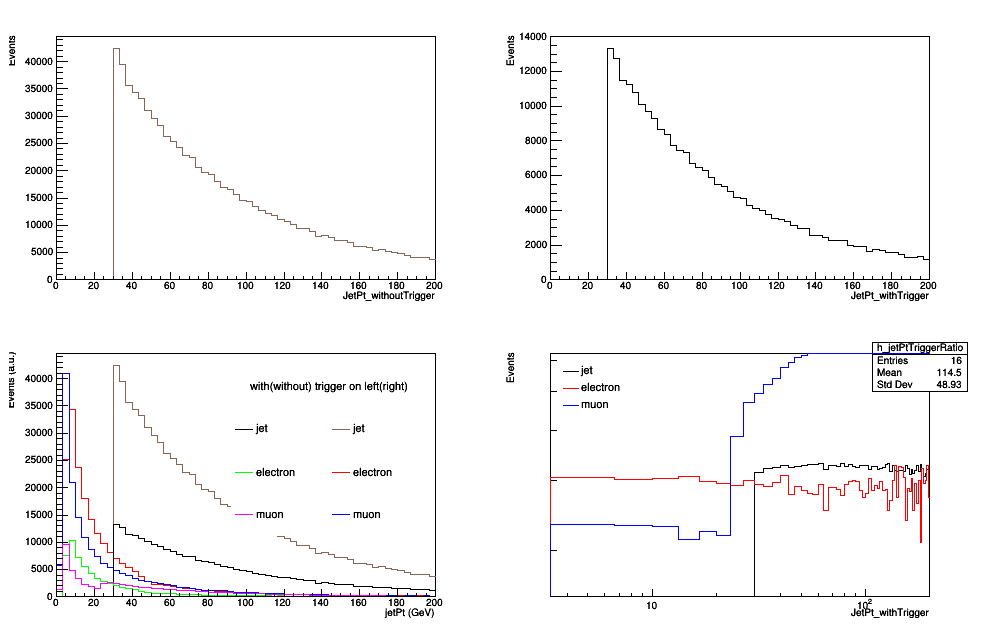
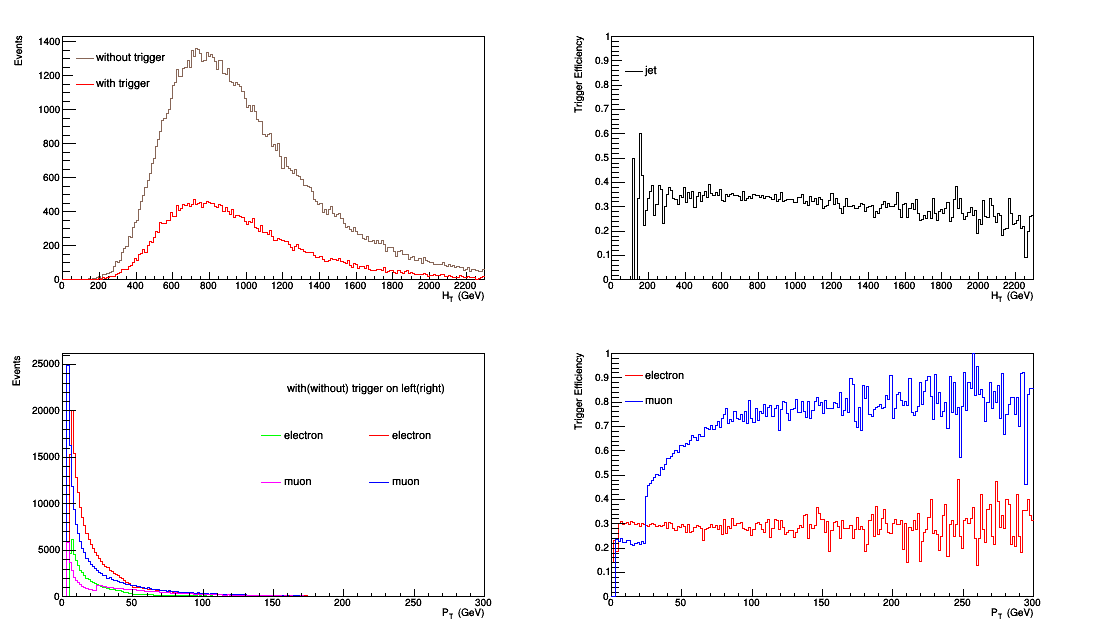
trigger IsoMu24 efficiency

diff --git a/triggerPathEfficiency.py b/triggerPathEfficiency.py
@@ -4,12 +4,12 @@ from argparse import ArgumentParser, ArgumentDefaultsHelpFormatter
 
 def main():
     #Create canvas
-    triggerCanvas = ROOT.TCanvas('triggerCanvas', 'Canvas of Pt with and without triggers', 990,660)
+    triggerCanvas = ROOT.TCanvas('triggerCanvas', 'Canvas of Pt with and without triggers', 1100,660)
     triggerCanvas.Divide(2,2)
 
     #Get histos from file
-    h_PtTriggerStack = ROOT.THStack('h_PtTriggerStack', ';jetPt (GeV); Events (a.u.)')
-    histFile = ROOT.TFile.Open("OutHistoMaker2.root")
+    h_PtTriggerStack = ROOT.THStack('h_PtTriggerStack', ';P_{T} (GeV); Events ')
+    histFile = ROOT.TFile.Open("../OutHistoMaker2.root")
     plotDirectory = histFile.cd("plots")
     h_jetPt = ROOT.gDirectory.Get("h_jetPt")
     h_jetPt.SetLineColor(28)
@@ -37,52 +37,62 @@ def main():
         print("jetPt_t histogram is empty")
 
     cv = triggerCanvas.cd(1)
+    h_jetPt.GetXaxis().SetTitle("H_{T} (GeV)")
     h_jetPt.GetYaxis().SetTitleOffset(1.5)
     h_jetPt.Draw()
-
-    cv = triggerCanvas.cd(2)
-    h_jetPtT.GetYaxis().SetTitleOffset(1.5)
-    h_jetPtT.Draw()
-
-    cv = triggerCanvas.cd(4)
-    #cv.SetLogy()
-    #cv.SetLogx()
-    h_jetPtTriggerRatio = (h_jetPtT).Clone("h_jetPtTriggerRatio")
-    h_jetPtTriggerRatio.Divide(h_jetPt)
-    h_jetPtTriggerRatio.SetLineColor(1)
-    h_jetPtTriggerRatio.Draw()
-    #h_jetPtTriggerRatio.GetYaxis().SetTitleOffset(1.3)
-    h_elPtTriggerRatio = (h_elPtT).Clone("h_elPtTriggerRatio")
-    h_elPtTriggerRatio.Divide(h_elPt)
-    h_elPtTriggerRatio.SetLineColor(2)
-    h_elPtTriggerRatio.Draw('same')
-    h_muonPtTriggerRatio = (h_muonPtT).Clone("h_muonPtTriggerRatio")
-    h_muonPtTriggerRatio.Divide(h_muonPt)
-    h_muonPtTriggerRatio.SetLineColor(4)
-    h_muonPtTriggerRatio.Draw('same')
+    h_jetPt.SetStats(False)
+    h_jetPtT.SetLineColor(2)
+    h_jetPtT.Draw('same')
     legg = ROOT.TLegend(0.12, 0.7,0.3, 0.87)
-    legg.AddEntry(h_jetPtTriggerRatio, "jet", "l")
-    legg.AddEntry(h_elPtTriggerRatio, "electron", "l")
-    legg.AddEntry(h_muonPtTriggerRatio, "muon", "l")
+    legg.AddEntry(h_jetPt, "without trigger", "l")
+    legg.AddEntry(h_jetPtT, "with trigger", "l")
     ROOT.gStyle.SetLegendTextSize(0.04)
     legg.SetBorderSize(0)
     legg.Draw()
 
+    cv = triggerCanvas.cd(2)
+    h_jetPtTriggerRatio = (h_jetPtT).Clone("h_jetPtTriggerRatio")
+    h_jetPtTriggerRatio.Divide(h_jetPt)
+    h_jetPtTriggerRatio.SetLineColor(1)
+    h_jetPtTriggerRatio.Draw()
+    h_jetPtTriggerRatio.GetXaxis().SetTitle("H_{T} (GeV)")
+    h_jetPtTriggerRatio.GetYaxis().SetTitle("Trigger Efficiency")
+    h_jetPtTriggerRatio.GetYaxis().SetRangeUser(0,1)
+    h_jetPtTriggerRatio.SetStats(False)
+    legg2 = ROOT.TLegend(0.12, 0.7,0.3, 0.87)
+    legg2.AddEntry(h_jetPtTriggerRatio, "jet", "l")
+    ROOT.gStyle.SetLegendTextSize(0.04)
+    legg2.SetBorderSize(0)
+    legg2.Draw()
+
+    cv = triggerCanvas.cd(4)
+    h_elPtTriggerRatio = (h_elPtT).Clone("h_elPtTriggerRatio")
+    h_elPtTriggerRatio.Divide(h_elPt)
+    h_elPtTriggerRatio.SetLineColor(2)
+    h_elPtTriggerRatio.Draw()
+    h_muonPtTriggerRatio = (h_muonPtT).Clone("h_muonPtTriggerRatio")
+    h_muonPtTriggerRatio.Divide(h_muonPt)
+    h_muonPtTriggerRatio.SetLineColor(4)
+    h_muonPtTriggerRatio.Draw('same')
+    h_elPtTriggerRatio.GetXaxis().SetTitle("P_{T} (GeV)")
+    h_elPtTriggerRatio.GetYaxis().SetTitle("Trigger Efficiency")
+    h_elPtTriggerRatio.GetYaxis().SetRangeUser(0,1)
+    h_elPtTriggerRatio.SetStats(False)
+    legg3 = ROOT.TLegend(0.12, 0.7,0.3, 0.87)
+    legg3.AddEntry(h_elPtTriggerRatio, "electron", "l")
+    legg3.AddEntry(h_muonPtTriggerRatio, "muon", "l")
+    ROOT.gStyle.SetLegendTextSize(0.04)
+    legg3.SetBorderSize(0)
+    legg3.Draw()
+
     cv = triggerCanvas.cd(3)
-    #h_jetPtTrigger.Draw()
-    #h_jetPt.Draw('same')
-    h_PtTriggerStack.Add(h_jetPt)
-    h_jetPt.GetYaxis().SetTitleOffset(1.7)
     h_PtTriggerStack.Add(h_elPt)
+    h_elPt.GetYaxis().SetTitleOffset(1.7)
     h_PtTriggerStack.Add(h_muonPt)
-    h_PtTriggerStack.Add(h_jetPtT)
     h_PtTriggerStack.Add(h_elPtT)
     h_muonPtT.GetYaxis().SetTitleOffset(1.7)
     h_PtTriggerStack.Add(h_muonPtT)
-    #h_PtTriggerStack.GetYaxis().SetTitleOffset(1.5)
     h_PtTriggerStack.Draw('nostack')
-    h_jetPt.SetStats(False)
-    h_jetPtT.SetStats(False)
     h_elPt.SetStats(False)
     h_elPtT.SetStats(False)
     h_muonPt.SetStats(False)
@@ -92,8 +102,6 @@ def main():
     ROOT.gStyle.SetLegendTextSize(0.04)
     legend.SetBorderSize(0)
     legend.SetHeader("with(without) trigger on left(right)", "C")
-    en1=legend.AddEntry(h_jetPtT, "jet", "l")
-    en2=legend.AddEntry(h_jetPt, "jet", "l")
     en3=legend.AddEntry(h_elPtT, "electron", "l")
     en4=legend.AddEntry(h_elPt, "electron", "l")
     en5=legend.AddEntry(h_muonPtT, "muon ", "l")

diff --git a/histoMaker.py b/histoMaker.py
@@ -38,17 +38,17 @@ class HistogramMaker(Module):
         self.addObject(self.h_jetEta)
         self.h_jetEtaT = ROOT.TH1D('h_jetEtaT', ';valJetEta;Events', 40, -2.5, 2.5)
         self.addObject(self.h_jetEtaT)"""
-        self.h_jetPt = ROOT.TH1D('h_jetPt', ';JetPt;Events', 60, 0, 200)
+        self.h_jetPt = ROOT.TH1D('h_jetPt', ';H_{T};Events', 200, 0, 2300)
         self.addObject(self.h_jetPt)
-        self.h_jetPtT = ROOT.TH1D('h_jetPtT', ';JetPt;Events', 60, 0, 200)
+        self.h_jetPtT = ROOT.TH1D('h_jetPtT', ';H_{T};Events', 200, 0, 2300)
         self.addObject(self.h_jetPtT)
-        self.h_elPt = ROOT.TH1D('h_elPt', ';valElPt ;Events', 60, 0, 200)
+        self.h_elPt = ROOT.TH1D('h_elPt', ';P_{T} ;Events', 200, 0, 300)
         self.addObject(self.h_elPt)
-        self.h_elPtT = ROOT.TH1D('h_elPtT', ';valElPt;Events', 60, 0, 200)
+        self.h_elPtT = ROOT.TH1D('h_elPtT', ';P_{T};Events', 200, 0, 300)
         self.addObject(self.h_elPtT)
-        self.h_muonPt = ROOT.TH1D('h_muonPt', ';valMuonPt;Events', 60, 0, 200)
+        self.h_muonPt = ROOT.TH1D('h_muonPt', ';P_{T};Events', 200, 0, 300)
         self.addObject(self.h_muonPt)
-        self.h_muonPtT = ROOT.TH1D('h_muonPtT', ';valMuonPt;Events', 60, 0, 200)
+        self.h_muonPtT = ROOT.TH1D('h_muonPtT', ';P_{T};Events', 200, 0, 300)
         self.addObject(self.h_muonPtT)
         """self.h_jetPhi = ROOT.TH1D('h_jetPhi', ';valJetPhi;Events', 20, -3.14, 3.14)
         self.addObject(self.h_jetPhi)
@@ -201,7 +201,7 @@ for file in files:
 p99=PostProcessor(".",
                   files,
                   #onefile,
-                  cut="nJet > 6 && nMuon >0",
+                  cut="nJet > 5 && nMuon > 0 ",
                   modules=[HistogramMaker()],
                   jsonInput=None,
                   noOut=True,
